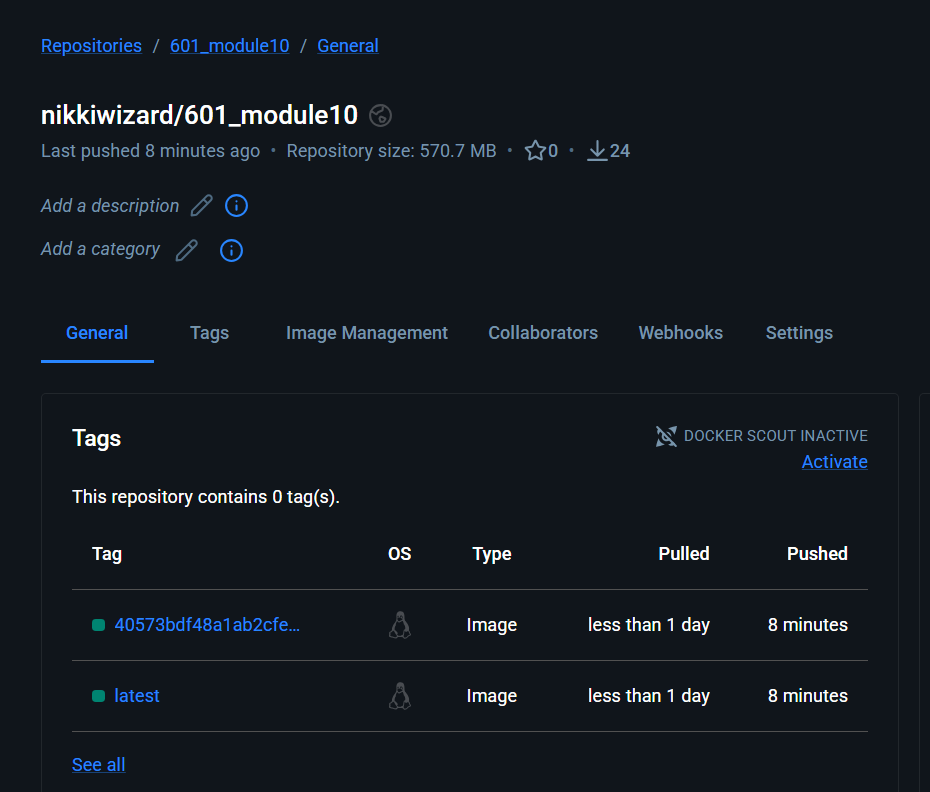
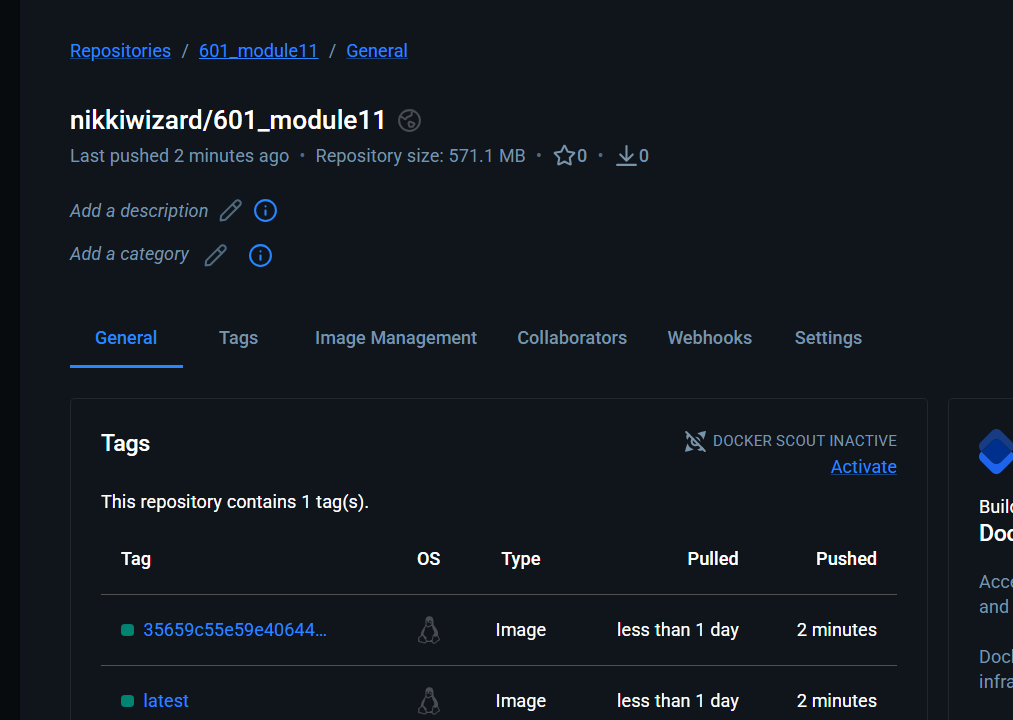
added screenshots and updated readme

diff --git a/README.md b/README.md
@@ -1,7 +1,7 @@
 ## Module 11
 
 ## DockerHub URL:
-https://hub.docker.com/repository/docker/nikkiwizard/601_module10/general
+https://hub.docker.com/repository/docker/nikkiwizard/601_module11/general
 
 ## Github Actions Run:
 ![Actions](screenshots/actions.png "Github Actions Workflow screenshot")